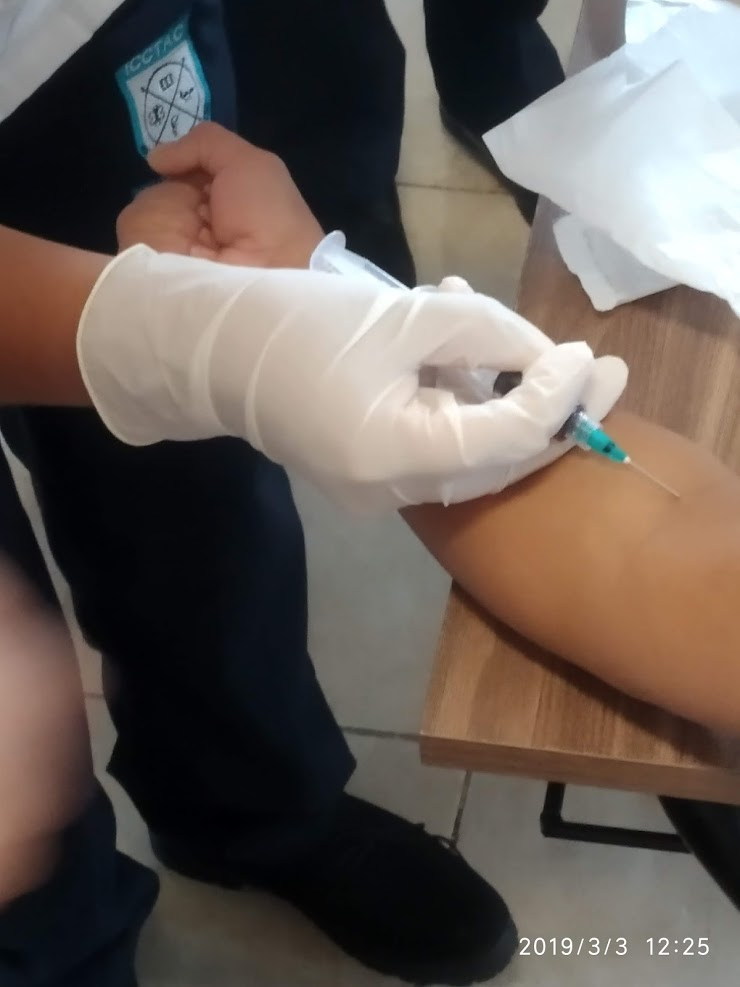
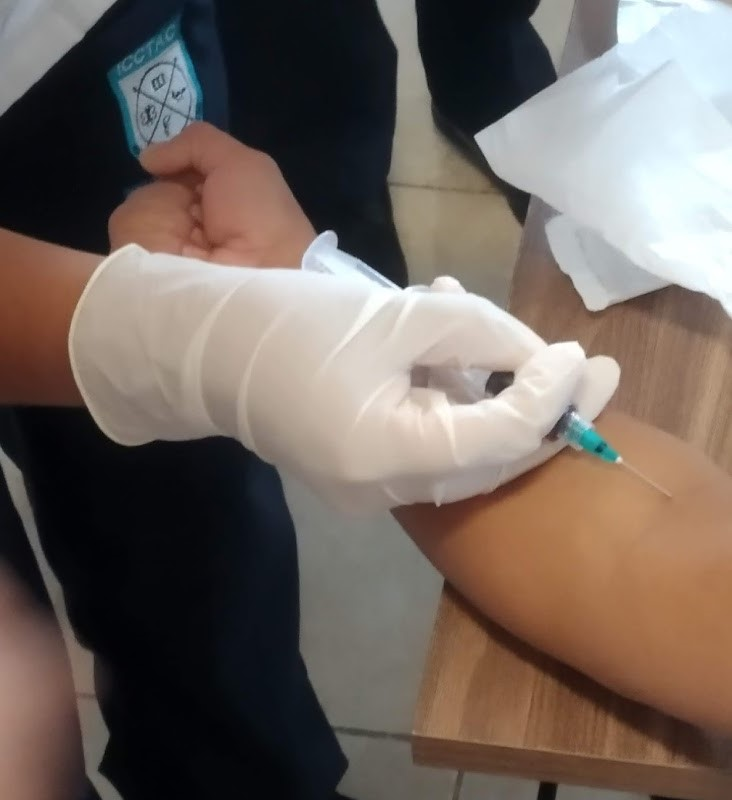
Recortar zapato
- Le recorte el zapate a la foto de toma de sangre]
- Tambien le explique a papa branches]
- DELETE archivo.jpg
- CHORE  limpie archivos
- CHORE actualizar color a color ICCTAC parte 1

diff --git a/css/style.css b/css/style.css
@@ -440,7 +440,7 @@ li > a:only-child:after {
 }
 
 a.read-more {
-  background: #03f4eb;
+  background: #3ba8a3;
   color: #fff;
   padding: 0.8em 3em;
   box-shadow: 2px 2px 2px 1px rgba(0, 0, 0, 0.15);
@@ -468,8 +468,8 @@ a.read-more {
 
 .middle-right h6 {
   font-size: 1em;
-  color: #03f4eb;
-  font-weight: 400;
+  color: #3ba8a3;
+  font-weight: 700;
   letter-spacing: 2px;
 }
 
@@ -673,7 +673,7 @@ span.title {
 
 .banner-bottom i.fas {
   font-size: 30px;
-  color: #03f4eb;
+  color: #3ba8a3;
 }
 .banner-bottom span.fas {
   font-size: 30px;
@@ -801,7 +801,8 @@ span.title {
 /* //team */
 
 .about-text-grid a {
-  background: #03f4eb;
+  background: #3ba8a3;
+  font-weight: bold;
   padding: 15px 30px;
   display: inline-block;
   color: #fff;
@@ -962,7 +963,7 @@ h6.b-w3ltxt {
 }
 h6.b-w3ltxt span {
   font-weight: normal;
-  color: #03f4eb;
+  color: #3ba8a3;
   text-transform: capitalize;
   font-size: 16px;
 }
@@ -970,7 +971,7 @@ h6.b-w3ltxt span {
   line-height: 1.8em;
 }
 .testi-cgrid p span.fa {
-  color: #03f4eb;
+  color: #3ba8a3;
 }
 
 .testi-icon img {
